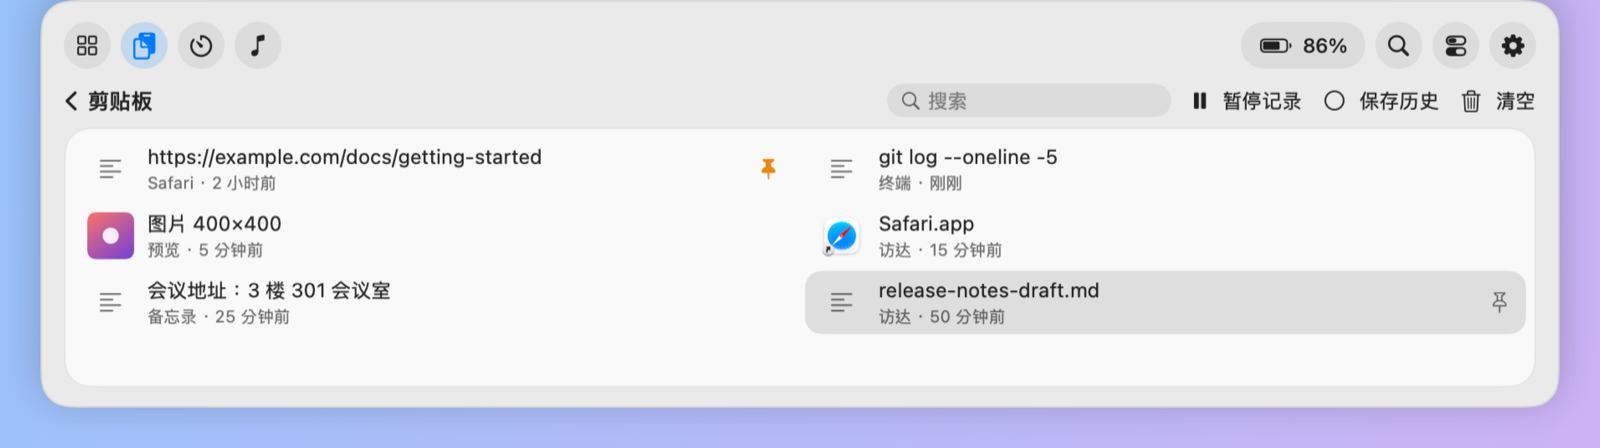
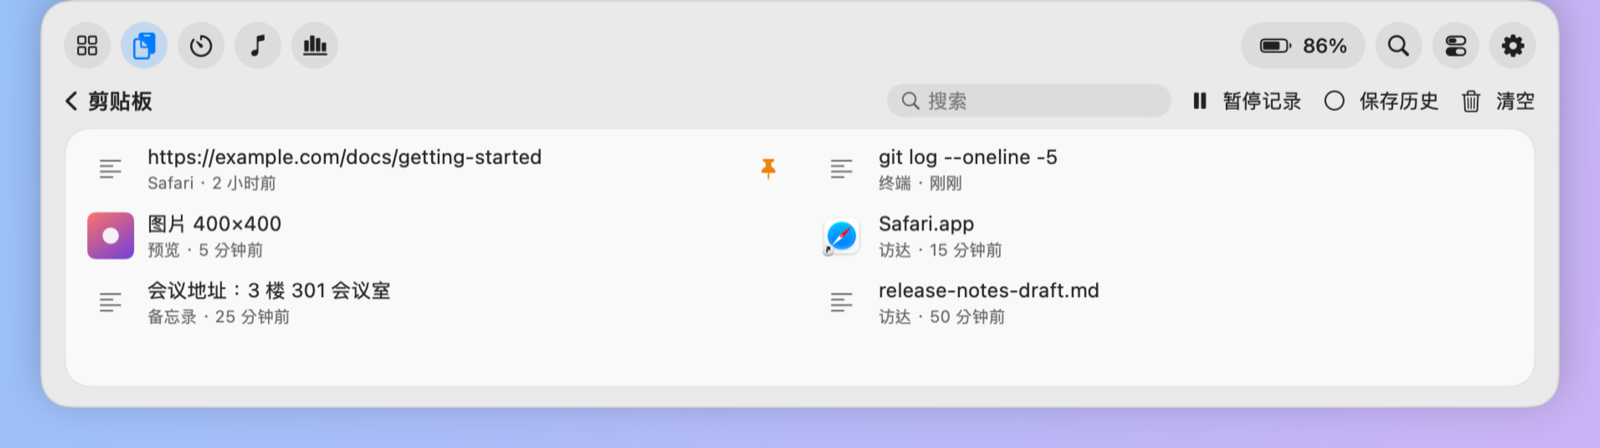
Refresh README screenshots and add token usage
- Retake every panel screenshot with demo data from the current build,
  so they show the token usage icon, the keep awake button, battery
  health and the keep awake timer.
- Add a token usage screenshot to both READMEs and show the Look Busy
  scene at full width below the table.
- Let model names in the Token Usage card shrink slightly before they
  are cut off, so names like claude-opus-5-5 fit in narrow cards.

Changed region(s): [[0.5, 0.5938, 0.9688, 0.75], [0.1875, 0.0625, 0.2188, 0.125]]

diff --git a/Sources/NotchDeckKit/Usage/TokenUsageViews.swift b/Sources/NotchDeckKit/Usage/TokenUsageViews.swift
@@ -152,9 +152,10 @@ struct TokenUsageCard: View {
                     Spacer(minLength: 0)
                     ForEach(rows.prefix(2)) { row in
                         HStack(spacing: 6) {
-                            Text(row.model).lineLimit(1).truncationMode(.middle)
+                            // 卡片窄时先缩小一点字号，放不下才从中间省略。
+                            Text(row.model).lineLimit(1).minimumScaleFactor(0.8).truncationMode(.middle).layoutPriority(1)
                             Spacer(minLength: 4)
-                            Text(formatTokens(row.counts.total)).monospacedDigit().foregroundStyle(Theme.secondary)
+                            Text(formatTokens(row.counts.total)).monospacedDigit().foregroundStyle(Theme.secondary).fixedSize()
                         }
                         .font(.system(size: 11))
                     }

diff --git a/README.md b/README.md
@@ -25,8 +25,12 @@ and quick system toggles. It has no Dock icon and needs no account.
 | ![Quick controls](docs/media/controls.png) | ![Search](docs/media/search.png) |
 | **Music** | **Timers** |
 | ![Music](docs/media/music.png) | ![Timers](docs/media/timer.png) |
-| **Second home page** | **Look Busy** |
-| ![Second home page](docs/media/home2.png) | ![Look Busy scene](docs/media/lookbusy.png) |
+| **Second home page** | **AI token usage** |
+| ![Second home page](docs/media/home2.png) | ![AI token usage](docs/media/usage.png) |
+
+**Look Busy**
+
+![Look Busy scene](docs/media/lookbusy.png)
 
 The screenshots use made-up demo data and show the Chinese interface. Other languages are available in Settings.
 
